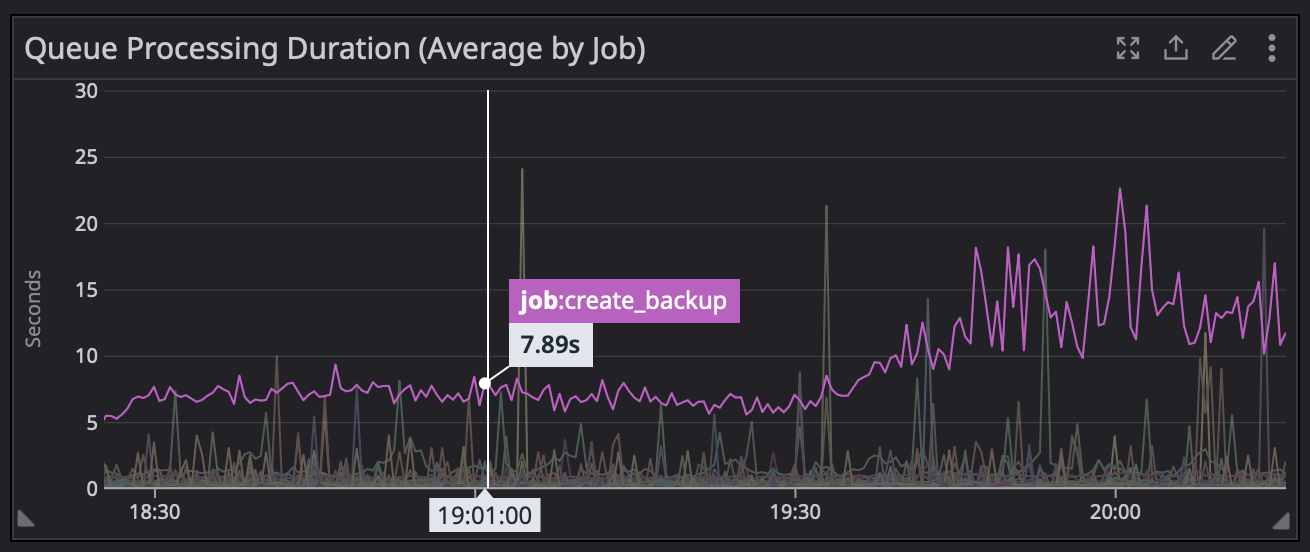
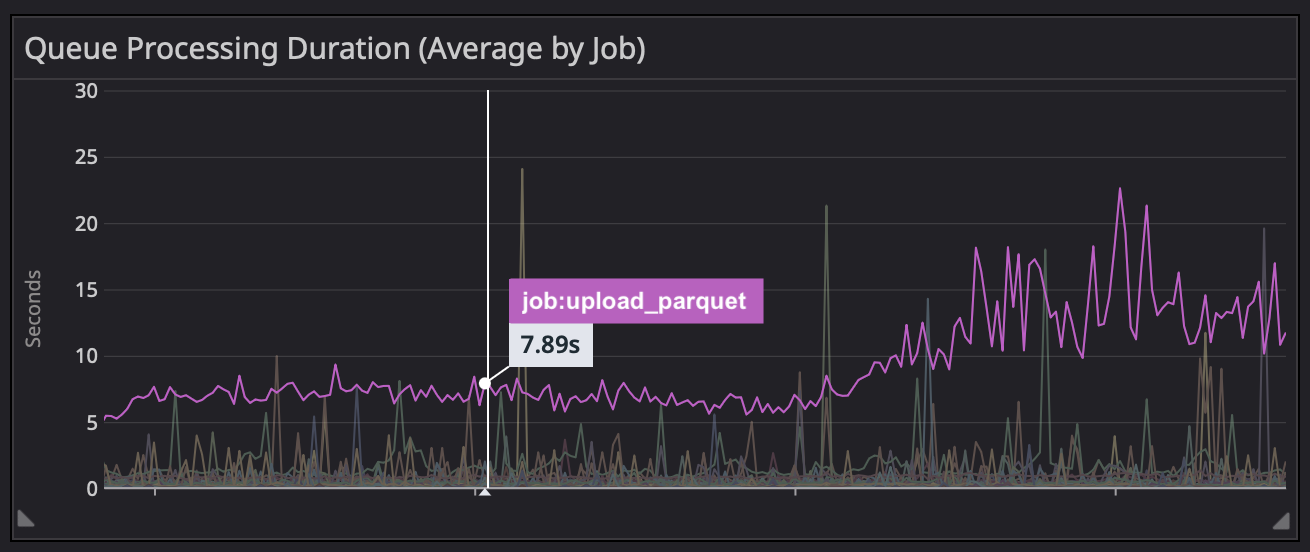
last couple fixes for sum draft

diff --git a/_drafts/2025-02-21-sum.md b/_drafts/2025-02-21-sum.md
@@ -35,17 +35,17 @@ Say we're aggregating as an **average**. We're responding to an incident, and in
 
 <img src="/assets/sum/1-avg.png">
 
-"Well _there's_ the problem," we might think, "the time it takes to create a backup increased by 3x, and I bet that's saturating all of our workers"!
+"Well _there's_ the problem," we might think, "the time it takes to upload a parquet increased by 3x, and I bet that's saturating all of our workers"!
 
-Well... maybe. But then you poke around a bit more, and see that we're only running a small handful of backup jobs at any one time:
+Well... maybe. But then you poke around a bit more, and see that we're only running a small handful of parquet jobs at any one time:
 
 <img src="/assets/sum/1-count.png">
 
-So -- a red herring! There might be something going on there, but it definitely couldn't cause our incident, even if these jobs started taking 10 times as long as usual.
+So -- a red herring! There might be something going on there, but it probably wouldn't cause our incident, even if these jobs started taking 10 times as long as usual.
 
 ---
 
-Similarly, if we aggregate as a **count**, we expose ourselves to the opposite problem. Maybe we're starting work for the day, go to check on our high-level dashboard, and WAIT WHAT IS THAT:
+Similarly, if we aggregate as a **count**, we expose ourselves to the opposite problem. Maybe we start work for the day, go to check on our high-level dashboard, and WAIT WHAT IS THAT:
 
 <img src="/assets/sum/2-count.png">
 
@@ -62,7 +62,7 @@ And -- yes! That's definitely true.
 However, in my experience, there are a few subtle issues underneath this line of thinking:
 
 * At least for me, it's actually kinda hard to grok 2 graphs at the same time. Using data from one to correct a misleading implication from the other takes at least a little bit brainpower (sometimes in short supply)
-* More critically, it means we **should never put one of these graphs alone**. The missteps I've outlined above might seem trivial to correct, but we're just humans, and it's _much_ harder to remember to challenge our assumptions if we don't have the counter-argument staring us in the face. But this, too, is a rule that's hard to remember...
+* More critically, it means we **should never put one of these graphs alone**. The missteps I've outlined above might seem trivial to correct, but we're just humans, and it's _much_ harder to remember to challenge our assumptions if we don't have the counter-argument staring us in the face. This, too, is a rule that's hard to remember...
 
 This brings us to the title of the post. In cases like this -- consider a sum!
 
@@ -72,8 +72,12 @@ Aggregating a latency or duration metric with a `sum` is kind of non-intuitive. 
 
 However, I've grown to like them in spite of that -- because they never lie to you!
 
-<img src="/assets/sum/2-count.png">
+Check out this example -- it's sourced from the same data as "Requests by Endpoint" above, but it shows us something closer to what we actually care about: total system load (resources consumed by each endpoint), immune to both outlier latency and volume noise.
 
-A chart showing "total amount of time we spent processing requests" won't mislead you in the event of a bunch of super-short latencies, _or_ the event of a small number of abnormally long ones, since in both cases -- they'll barely register on the graph.
+<img src="/assets/sum/2-sum.png">
 
-So, while a sum isn't as useful on the request level, I would argue that from the perspective of a system operator, there's nothing better :)
+A chart showing "total amount of time we spent processing requests" won't mislead you in the event of a bunch of super-short latencies _or_ in the event of a small number of abnormally long ones, since in both cases, like above -- they'll barely register on the graph.
+
+---
+
+So, while a sum isn't as representative of a request itself, no other aggregation consistently shows actual system impact like `sum` does. And I would argue that from the perspective of a system operator, there's nothing better :)
